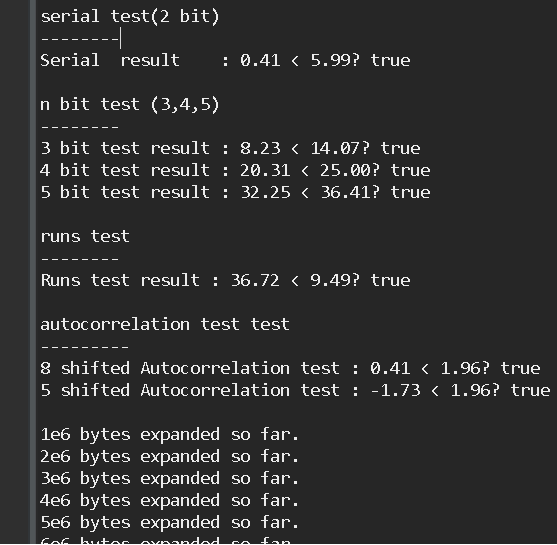
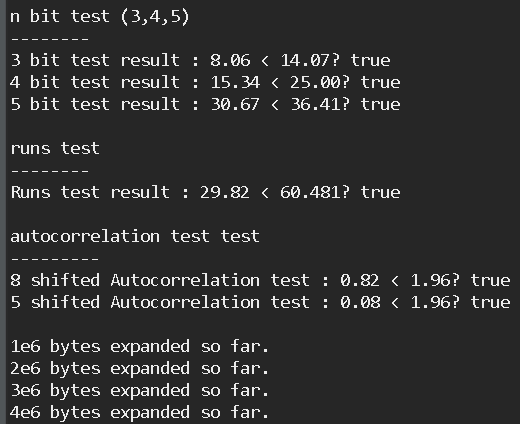
stat test output number fix

Changed region(s): [[0.0, 0.0, 1.0, 1.0], [0.3985, 0.0918, 0.7356, 0.1529]]

diff --git a/Encryption/KeyManagmentUtility/src/jc/Test_Randomness/Testing_Randomness.java b/Encryption/KeyManagmentUtility/src/jc/Test_Randomness/Testing_Randomness.java
@@ -238,7 +238,7 @@ public class Testing_Randomness {
 		DecimalFormat twoPlaces = new DecimalFormat("#0.00");
 
 		double alpha[] = new double[] { 14.067, 24.996, 36.415 };
-
+		
 		System.out.println(m + " bit test result : " + twoPlaces.format(chi) + " < " + twoPlaces.format(alpha[m - 3])
 				+ "? " + (chi < alpha[m - 3]));
 		return (chi < alpha[m - 3]);
@@ -259,6 +259,7 @@ public class Testing_Randomness {
 
 		// 1.96
 		DecimalFormat twoPlaces = new DecimalFormat("#0.00");
+		chi = Math.abs(chi);
 		System.out.println(d + " shifted Autocorrelation test : " + twoPlaces.format(chi) + " < 1.96? " + (chi < 1.96));
 		return (chi < 1.96);
 	}
@@ -316,7 +317,8 @@ public class Testing_Randomness {
 		// k for expected key size is 46 , DF = 44 --> alpha .05 = 60.481
 
 		DecimalFormat twoPlaces = new DecimalFormat("#0.00");
-		System.out.println("Runs test result : " + twoPlaces.format(chi) + " < 9.49? " + (chi < 60.481));
+		chi = Math.abs(chi);
+		System.out.println("Runs test result : " + twoPlaces.format(chi) + " < 60.481? " + (chi < 60.481));
 		return (chi < 60.481);
 	}
 
